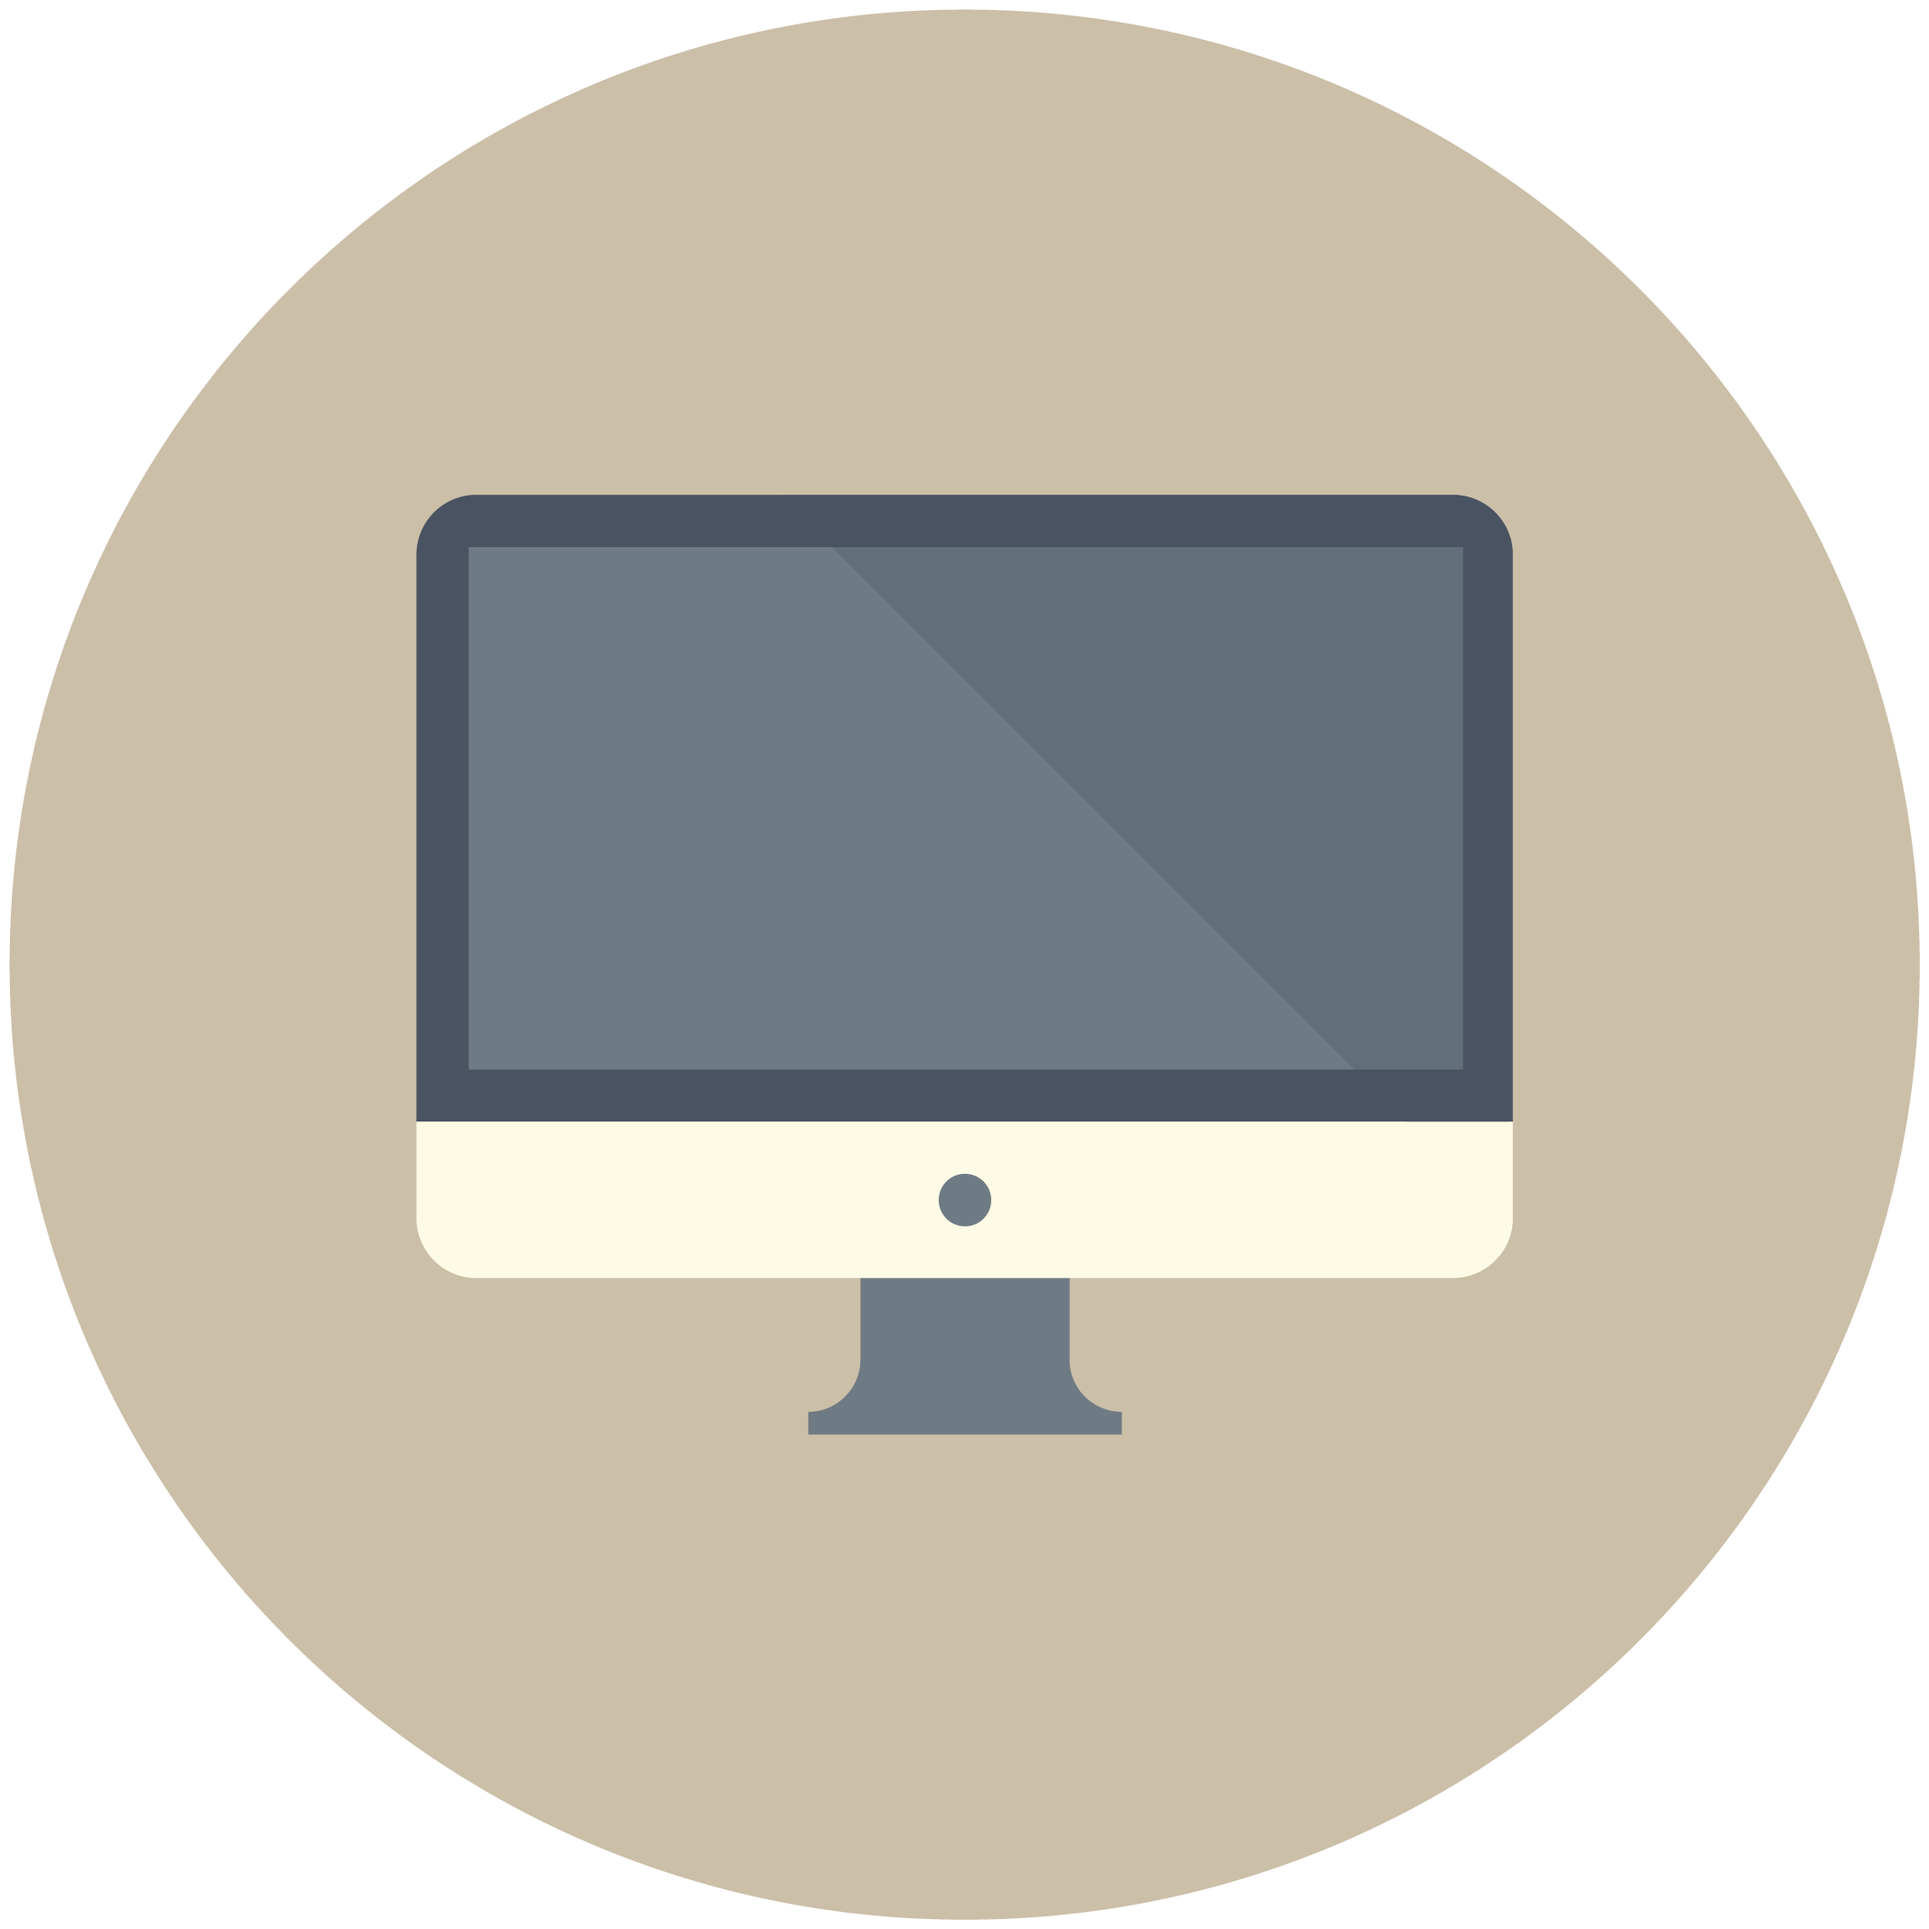
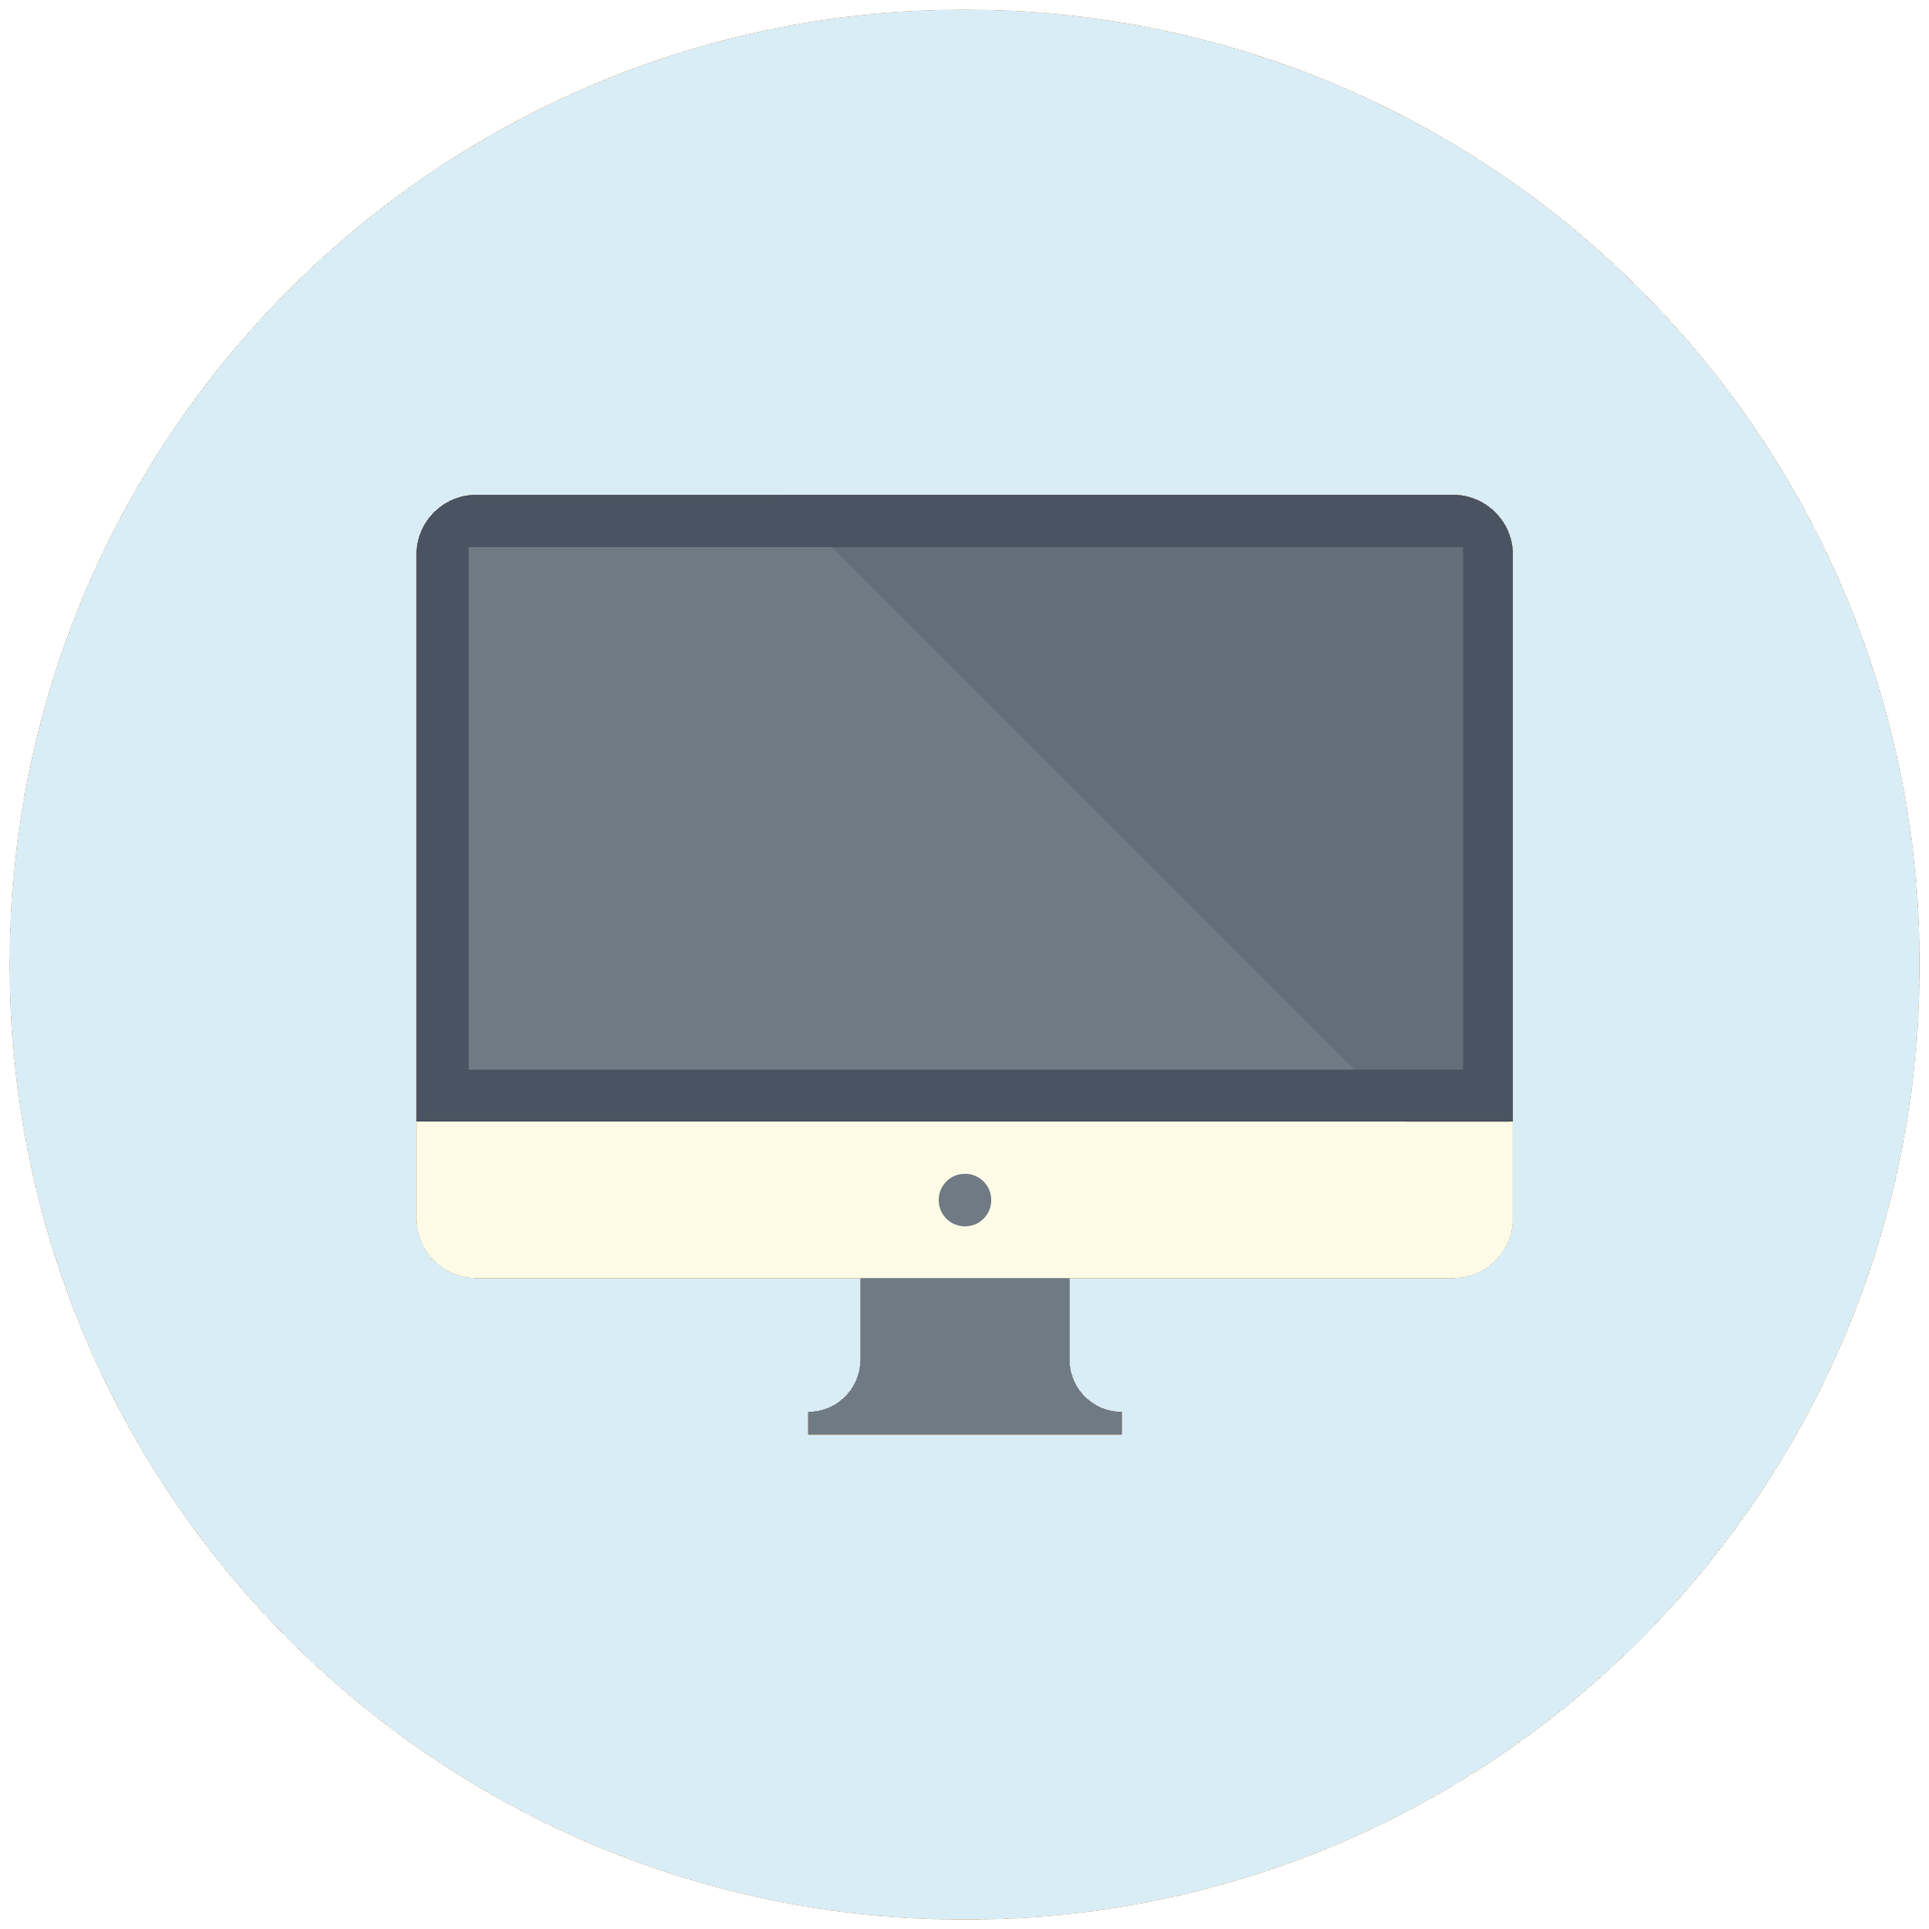
changed background on picture

diff --git a/index.html b/index.html
@@ -62,13 +62,13 @@
 				<h2>Skills</h2>
 				
 				<div class="row">
-					<div class="col-md-5 col-sm-12">
+					<div class="col-md-4 col-sm-12">
 						<div class="panel panel-primary">
 							<!-- Default panel contents -->
 							<div class="panel-heading">Software</div>							
 							<ul class="list-group">
-							  <li class="list-group-item"><i class="fa fa-code"></i> PHP</li>
-							  <li class="list-group-item"><i class="fa fa-server"></i> C++</li>
+							  <li class="list-group-item"><i class="fa fa-server"></i> PHP</li>
+							  <li class="list-group-item"><i class="fa fa-code"></i> C++</li>
 							  <li class="list-group-item"><i class="fa fa-apple"></i> Swift</li>
 							  <li class="list-group-item"><i class="fa fa-coffee"></i> Java</li>
 							  <li class="list-group-item"><i class="fa fa-database"></i> SQL</li>
@@ -78,10 +78,10 @@
 							</ul>
 						</div>
 					</div>
-					<div class="col-md-2 hidden-sm hidden-xs">
+					<div class="col-md-4 hidden-sm hidden-xs">
 						<img src="/images/computer.png" alt="Computers" class="img-circle hidden-xs" style="width:100%;">						
 					</div>
-					<div class="col-md-5 col-sm-12">
+					<div class="col-md-4 col-sm-12">
 						<div class="panel panel-info">
 							<!-- Default panel contents -->
 							<div class="panel-heading">Hardware</div>
@@ -92,7 +92,7 @@
 							  <li class="list-group-item"><i class="fa fa-bolt"></i> Firmware Design</li>
 							  <li class="list-group-item"><i class="fa fa-sitemap"></i> Hardware Architecture</li>
 							  <li class="list-group-item"><i class="fa fa-users"></i> Project Management</li>
-							  <li class="list-group-item"><i class="fa fa-users"></i> Project Management</li>
+							  <li class="list-group-item"><i class="fa fa-keyboard-o"></i> Micro-controllers (Arduino, MSP430, Launchpad)</li>
 							</ul>						
 						</div>
 					</div>
